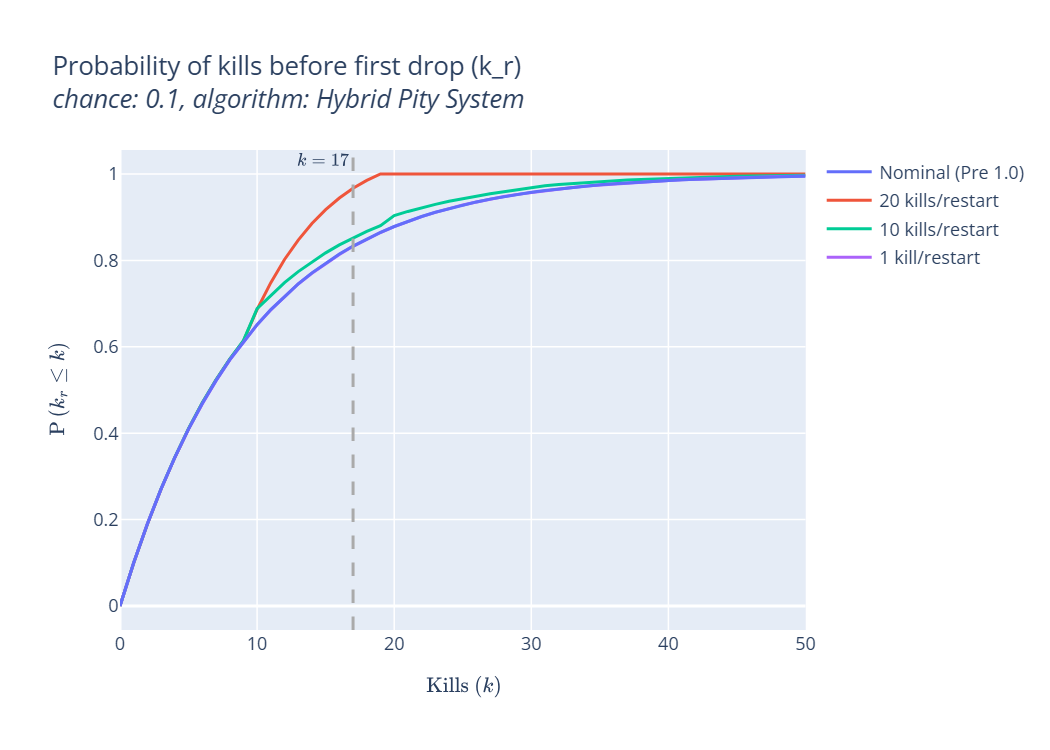
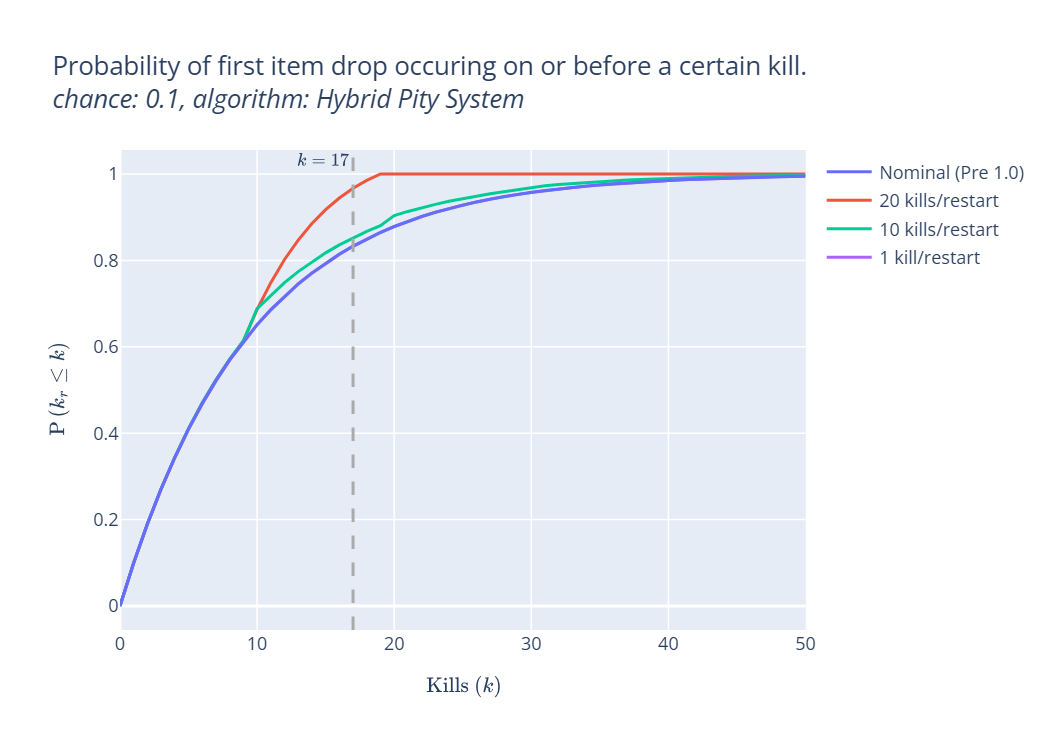
Updated plot titles.

Changed region(s): [[0.2133, 0.0613, 0.7619, 0.1227]]

diff --git a/src/valheim_statistics/plots.py b/src/valheim_statistics/plots.py
@@ -178,7 +178,7 @@ def first_drop_plot(
     )
 
     figure.update_layout(
-        title="Probability of kills before first drop (k_r)"
+        title="Probability of first item drop occuring on or before a certain kill."
         "<br>"
         f"<i>chance: {chance}, algorithm: {algo.name()}</i>",
     )
@@ -213,7 +213,7 @@ def first_drop_plot(
 
     figure.update_layout(showlegend=True)
     # figure.show()
-    figure.write_image(_plot_filename(name, "first"), scale=scale)
+    figure.write_image(_plot_filename(algo.lower_name(), "first"), scale=scale)
 
 
 def average_drop_plot(
@@ -274,17 +274,17 @@ def average_drop_plot(
 
     figure.update_layout(showlegend=True)
     # figure.show()
-    figure.write_image(_plot_filename(name, "average"), scale=scale)
+    figure.write_image(_plot_filename(algo.lower_name(), "average"), scale=scale)
 
 
 if __name__ == "__main__":
     if not _PLOT_DIR.exists():
         _PLOT_DIR.mkdir(parents=True)
 
-    first_drop_plot(algo=PseudoDrop(), seed=42)
-    average_drop_plot(algo=PseudoDrop(), seed=42)
-    average_drop_plot(algo=PseudoDropCorrectedInterval(), seed=42)
-    first_drop_plot(algo=PseudoDropRandomArrival(), seed=42)
-    average_drop_plot(algo=PseudoDropRandomArrival(), seed=42)
+    # first_drop_plot(algo=PseudoDrop(), seed=42)
+    # average_drop_plot(algo=PseudoDrop(), seed=42)
+    # # average_drop_plot(algo=PseudoDropCorrectedInterval(), seed=42)
+    # first_drop_plot(algo=PseudoDropRandomArrival(), seed=42)
+    # average_drop_plot(algo=PseudoDropRandomArrival(), seed=42)
     first_drop_plot(algo=HybridPitySystem(), seed=42)
     average_drop_plot(algo=HybridPitySystem(), seed=42)

diff --git a/src/valheim_statistics/algorithms.py b/src/valheim_statistics/algorithms.py
@@ -1,5 +1,6 @@
 import math as m
 import random
+from abc import ABC
 from collections.abc import Callable
 from functools import cache, partial
 from typing import Protocol
@@ -9,7 +10,7 @@ from valheim_statistics.caseutil import pascal_to_snake, pascal_to_words
 type DropSimulatorFactory = Callable[[], DropChanceSimulator]
 
 
-class DropChanceAlgorithm(Protocol):
+class DropChanceAlgorithm(ABC):
     @classmethod
     def name(cls) -> str:
         return pascal_to_words(cls.__name__)
@@ -59,6 +60,10 @@ def randint_exclusive(inclusive_lower: int, exclusive_upper: int) -> int:
 
 
 class PseudoDrop(DropChanceAlgorithm):
+    @classmethod
+    def name(cls) -> str:
+        return "Vanilla Pseudo Drop"
+
     def simulator_factory(self, chance: float) -> DropSimulatorFactory:
         return partial(self._Sim, chance=chance)
 
@@ -146,6 +151,10 @@ class HybridPitySystem(DropChanceAlgorithm):
 
 
 class PseudoDropRandomArrival(DropChanceAlgorithm):
+    @classmethod
+    def name(cls) -> str:
+        return "Fixed Pseudo Drop"
+
     def simulator_factory(self, chance: float) -> DropSimulatorFactory:
         return partial(self._Sim, chance=chance)
 
